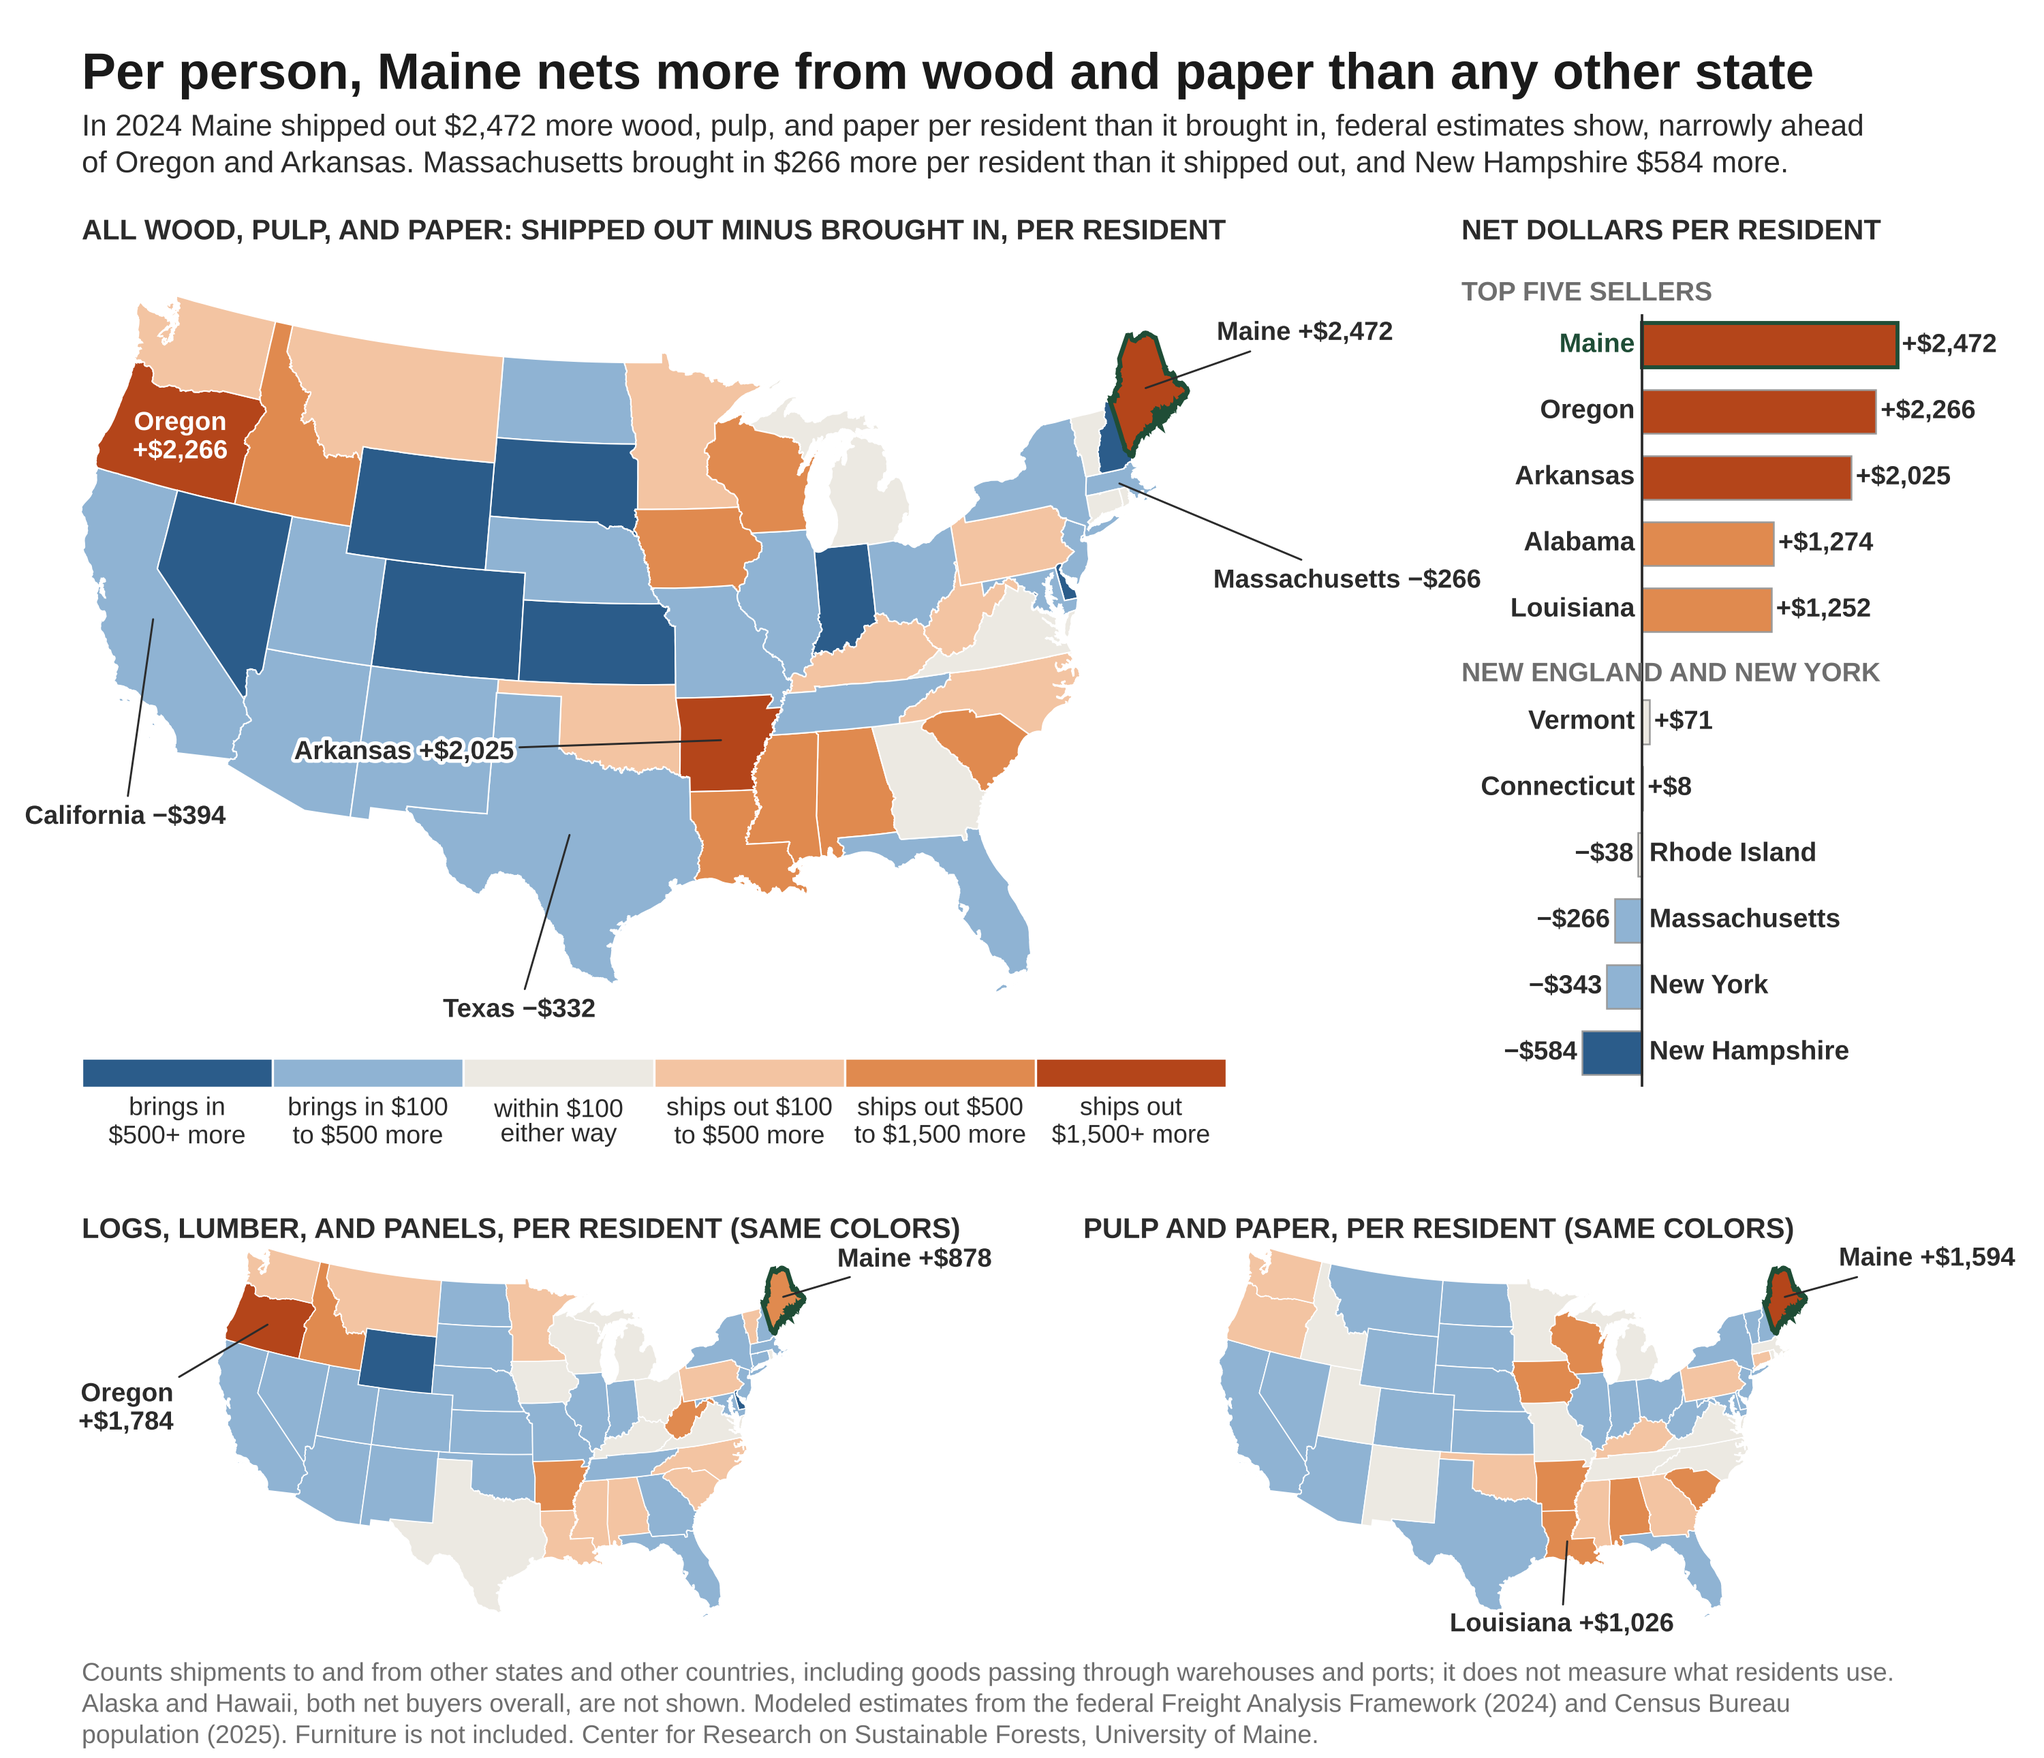
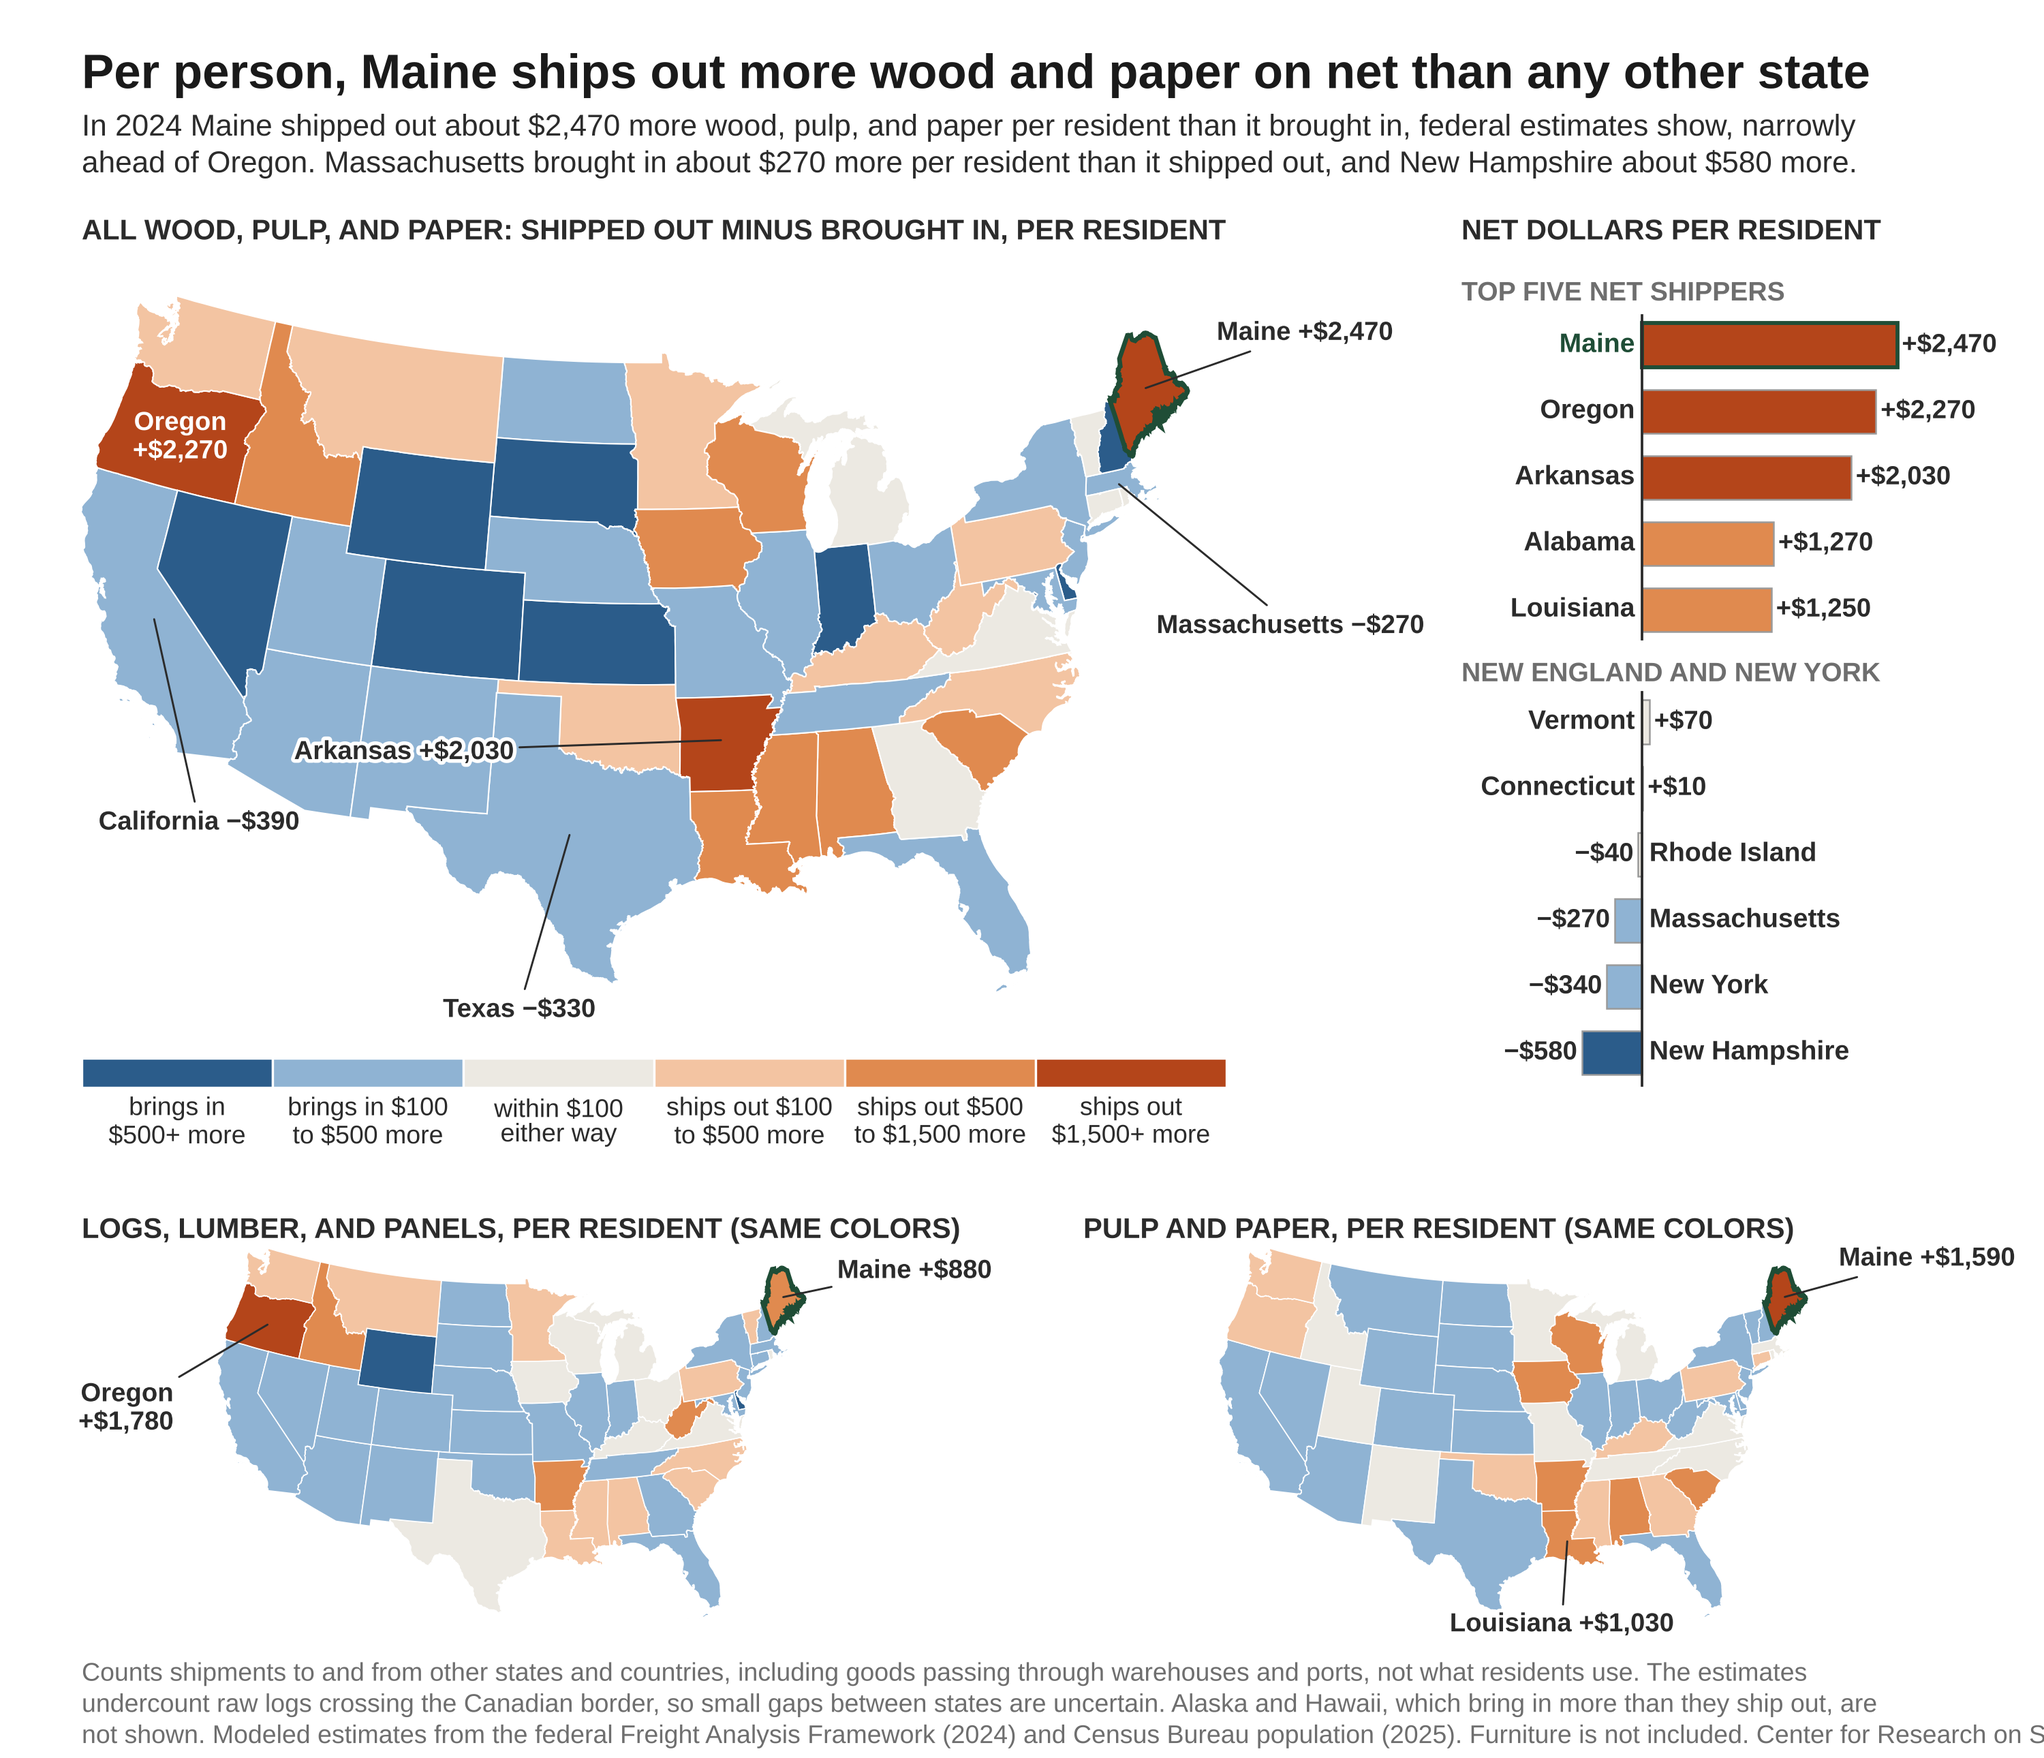
Trade figures: second review round repairs
Claude-Session: https://claude.ai/code/session_013WsDVoeaXCGmdbNt2QvfhH

diff --git a/wood-travels/2026-11-14_us-wood-net-trade-per-person-by-state-map_DRAFT.py b/wood-travels/2026-11-14_us-wood-net-trade-per-person-by-state-map_DRAFT.py
@@ -100,7 +100,7 @@ LABS = ["buys \\$500+ more", "buys \\$100 to \\$500 more", "about even", "sells 
 def cls(v):
     return sum(v >= e for e in EDGES)
 def money(v):
-    return ("+" if v >= 0 else "\u2212") + f"\\${abs(v):,.0f}"
+    return ("+" if v >= 0 else "\u2212") + f"\\${round(abs(v), -1):,.0f}"
 skip = {"Alaska", "Hawaii", "Puerto Rico", "Guam", "American Samoa", "United States Virgin Islands", "Commonwealth of the Northern Mariana Islands"}
 key = {"District of Columbia": "Washington DC"}
 
@@ -122,12 +122,12 @@ def draw(ax, k, labels=None, lw=0.5):
                     color=INK, path_effects=halo, zorder=6, arrowprops=dict(arrowstyle="-", color=INK, lw=0.7, shrinkA=0, shrinkB=1) if abs(dx) + abs(dy) > 26 else None)
 
 fig = plt.figure(figsize=(10, 8.6), dpi=300); fig.patch.set_facecolor("white")
-fig.text(0.04, 0.957, "Per person, Maine nets more from wood and paper than any other state", fontweight="bold", fontsize=18, color="#1A1A1A", ha="left", va="center")
-fig.text(0.04, 0.917, f"In 2024 Maine shipped out \\${val['Maine'][0]:,.0f} more wood, pulp, and paper per resident than it brought in, federal estimates show, narrowly ahead\n"
-         f"of Oregon and Arkansas. Massachusetts brought in \\${-val['Massachusetts'][0]:,.0f} more per resident than it shipped out, and New Hampshire \\${-val['New Hampshire'][0]:,.0f} more.", fontsize=10.6, color=INK, ha="left", va="center", linespacing=1.3)
+fig.text(0.04, 0.957, "Per person, Maine ships out more wood and paper on net than any other state", fontweight="bold", fontsize=17, color="#1A1A1A", ha="left", va="center")
+fig.text(0.04, 0.917, f"In 2024 Maine shipped out about \\${round(val['Maine'][0], -1):,.0f} more wood, pulp, and paper per resident than it brought in, federal estimates show, narrowly\n"
+         f"ahead of Oregon. Massachusetts brought in about \\${round(-val['Massachusetts'][0], -1):,.0f} more per resident than it shipped out, and New Hampshire about \\${round(-val['New Hampshire'][0], -1):,.0f} more.", fontsize=10.6, color=INK, ha="left", va="center", linespacing=1.3)
 
 a = fig.add_axes([0.02, 0.395, 0.60, 0.455])
-draw(a, 0, {"Maine": (26, 20, "left"), "Oregon": (0, 0, "in"), "Arkansas": (-74, -4, "right"), "Massachusetts": (34, -34, "left"), "California": (-10, -70, "center"), "Texas": (-18, -62, "center")})
+draw(a, 0, {"Maine": (26, 20, "left"), "Oregon": (0, 0, "in"), "Arkansas": (-74, -4, "right"), "Massachusetts": (14, -50, "left"), "California": (16, -72, "center"), "Texas": (-18, -62, "center")})
 fig.text(0.04, 0.868, "ALL WOOD, PULP, AND PAPER: SHIPPED OUT MINUS BROUGHT IN, PER RESIDENT", fontsize=10, fontweight="bold", color=INK, ha="left", va="center")
 lx = fig.add_axes([0.04, 0.368, 0.56, 0.03]); lx.set_axis_off(); lx.set_xlim(0, 6); lx.set_ylim(0, 1)
 for i, (c, t) in enumerate(zip(COLS, ["brings in\n\\$500+ more", "brings in \\$100\nto \\$500 more", "within \\$100\neither way", "ships out \\$100\nto \\$500 more", "ships out \\$500\nto \\$1,500 more", "ships out\n\\$1,500+ more"])):
@@ -142,13 +142,13 @@ for s, y in zip(grp, ys):
     b.barh(y, v, height=0.66, color=COLS[cls(v)], edgecolor="#1F4D36" if s == "Maine" else "#9A9A9A", linewidth=1.4 if s == "Maine" else 0.6)
     b.text(-70 if v >= 0 else 70, y, s, ha="right" if v >= 0 else "left", va="center", fontsize=9.4, fontweight="bold", color="#1F4D36" if s == "Maine" else INK)
     b.text(v + (45 if v >= 0 else -45), y, money(v), ha="left" if v >= 0 else "right", va="center", fontsize=9.2, fontweight="bold", color=INK)
-b.plot([0, 0], [-0.5, ys[0] + 0.45], color=INK, lw=0.9); b.set_xlim(-1750, 3300); b.set_ylim(-0.7, len(grp) + 0.4); b.set_axis_off()
-b.text(-1750, ys[0] + 0.78, "TOP FIVE SELLERS", fontsize=9.4, fontweight="bold", color=GRY, ha="left", va="center")
+b.plot([0, 0], [ys[4] - 0.45, ys[0] + 0.45], color=INK, lw=0.9); b.plot([0, 0], [-0.5, ys[5] + 0.45], color=INK, lw=0.9); b.set_xlim(-1750, 3300); b.set_ylim(-0.7, len(grp) + 0.4); b.set_axis_off()
+b.text(-1750, ys[0] + 0.78, "TOP FIVE NET SHIPPERS", fontsize=9.4, fontweight="bold", color=GRY, ha="left", va="center")
 b.text(-1750, ys[5] + 0.72, "NEW ENGLAND AND NEW YORK", fontsize=9.4, fontweight="bold", color=GRY, ha="left", va="center")
 fig.text(0.715, 0.868, "NET DOLLARS PER RESIDENT", fontsize=10, fontweight="bold", color=INK, ha="left", va="center")
 
-for j, (k, title, labs) in enumerate([(1, "LOGS, LUMBER, AND PANELS", {"Maine": (20, 14, "left"), "Oregon": (-34, -30, "right2")}), (2, "PULP AND PAPER", {"Maine": (20, 14, "left"), "Louisiana": (-2, -30, "center")})]):
+for j, (k, title, labs) in enumerate([(1, "LOGS, LUMBER, AND PANELS", {"Maine": (20, 10, "left"), "Oregon": (-34, -30, "right2")}), (2, "PULP AND PAPER", {"Maine": (20, 14, "left"), "Louisiana": (-2, -30, "center")})]):
     c = fig.add_axes([0.02 + 0.49 * j, 0.068, 0.47, 0.222]); draw(c, k, labs, lw=0.4)
     fig.text(0.04 + 0.49 * j, 0.300, title + ", PER RESIDENT (SAME COLORS)", fontsize=10, fontweight="bold", color=INK, ha="left", va="center")
-fig.text(0.04, 0.030, "Counts shipments to and from other states and other countries, including goods passing through warehouses and ports; it does not measure what residents use.\nAlaska and Hawaii, both net buyers overall, are not shown. Modeled estimates from the federal Freight Analysis Framework (2024) and Census Bureau\npopulation (2025). Furniture is not included. Center for Research on Sustainable Forests, University of Maine.", fontsize=9, color=GRY, ha="left", va="center", linespacing=1.3)
+fig.text(0.04, 0.030, "Counts shipments to and from other states and countries, including goods passing through warehouses and ports, not what residents use. The estimates\nundercount raw logs crossing the Canadian border, so small gaps between states are uncertain. Alaska and Hawaii, which bring in more than they ship out, are\nnot shown. Modeled estimates from the federal Freight Analysis Framework (2024) and Census Bureau population (2025). Furniture is not included. Center for Research on Sustainable Forests, University of Maine.", fontsize=9, color=GRY, ha="left", va="center", linespacing=1.3)
 fig.savefig(OUT, dpi=300, facecolor="white"); print("saved", OUT)

diff --git a/wood-travels/2026-11-14_us-wood-net-trade-by-world-region-map_DRAFT.py b/wood-travels/2026-11-14_us-wood-net-trade-by-world-region-map_DRAFT.py
@@ -91,7 +91,7 @@ BUY, SELL = "#2B5C8A", "#D9692E"
 
 fig = plt.figure(figsize=(10, 5.9), dpi=300); fig.patch.set_facecolor("white")
 fig.text(0.04, 0.94, f"The U.S. spends more on wood and paper than it earns in {['zero','one','two','three','four','five','six','seven','eight'][nneg]} of eight world regions", fontweight="bold", fontsize=16.4, color="#1A1A1A", ha="left", va="center")
-fig.text(0.04, 0.878, f"In 2024 the U.S. bought {B(imp)} of logs, wood products, pulp, and paper abroad and sold {B(exp_)}, federal estimates show. It shipped out more\ntons than it brought in, but a ton coming in was worth about \\${imp / kti * 1000:,.0f} and a ton going out about \\${exp_ / kto * 1000:,.0f}, a sign that raw\nmaterials leave and value-added products come back. Circle area is the dollar gap, U.S. sold minus bought.", fontsize=10.6, color=INK, ha="left", va="center", linespacing=1.3)
+fig.text(0.04, 0.878, f"In 2024 the U.S. bought {B(imp)} of logs, wood products, pulp, and paper abroad and sold {B(exp_)}, federal estimates show. It sold more logs, pulp,\nand bulk paper than it bought and bought more lumber, panels, and finished paper goods than it sold. A ton coming in was worth about \\${round(imp / kti * 1000, -1):,.0f}\nand a ton going out about \\${round(exp_ / kto * 1000, -1):,.0f}. Circle area is the dollar gap, U.S. sold minus bought.", fontsize=10.6, color=INK, ha="left", va="center", linespacing=1.3)
 
 ax = fig.add_axes([0.02, 0.07, 0.66, 0.74]); ax.set_axis_off(); ax.set_aspect("equal")
 for name, rings in world.items():
@@ -110,7 +110,7 @@ for k, (i, o) in sorted(reg.items(), key=lambda t: -abs(t[1][1] - t[1][0])):
     txt = f"{nice.get(k, k)}\n{'+' if net > 0 else '−'}{amt}"
     ax.annotate(txt, (x[0], y[0]), xytext=(dx, dy), textcoords="offset points", ha=ha, va="center", fontsize=9.4, fontweight="bold", color="white" if k == "Canada" else INK,
                 path_effects=None if k == "Canada" else halo, zorder=5, linespacing=1.1)
-pp = (imp - exp_) * 1e6 / 341785457                      # U.S. resident population, Census Bureau July 1, 2025 estimates (sum of the state file)
+pp = (imp - exp_) * 1e6 / 341784857                      # U.S. resident population, Census Bureau July 1, 2025 estimates (sum of the state file)
 xu, yu = equal_earth(np.array([-117.0]), np.array([33.0])); xt, yt = equal_earth(np.array([-166.0]), np.array([-4.0]))
 ax.annotate(f"UNITED STATES\nbought {B(imp)}\nsold {B(exp_)}\ngap {B(imp - exp_)}\n\\${pp:.0f} per resident", (xu[0], yu[0]), xytext=(xt[0], yt[0]), textcoords="data", ha="left", va="top",
             fontsize=9.4, fontweight="bold", color=INK, path_effects=halo, arrowprops=dict(arrowstyle="-", color=INK, lw=0.8, relpos=(0.3, 1.0)), zorder=6, linespacing=1.2)
@@ -125,8 +125,9 @@ for j, k in enumerate(order):
     y = len(order) - 1 - j; i, o = reg[k]
     b.barh(y + 0.19, i, height=0.36, color=BUY); b.barh(y - 0.19, o, height=0.36, color=SELL)
     b.text(-600, y, nice.get(k, k).replace("\n", " ").replace("Southwest and Central Asia", "SW and Central Asia").replace("Southeast Asia and Oceania", "SE Asia and Oceania"), ha="right", va="center", fontsize=9.2, fontweight="bold", color=INK)
-    b.text(max(i, o) + 500, y, f"{B(i)} / {B(o)}", ha="left", va="center", fontsize=9, color=INK)
-b.set_xlim(0, 37000); b.set_ylim(-0.7, len(order) - 0.3); b.set_axis_off()
-fig.text(0.80, 0.80, "U.S. BOUGHT", fontsize=10, fontweight="bold", color=BUY, ha="left", va="center"); fig.text(0.905, 0.80, "/ SOLD", fontsize=10, fontweight="bold", color=SELL, ha="left", va="center")
-fig.text(0.04, 0.035, "Modeled estimates from the federal Freight Analysis Framework (2024). Wooden furniture, not counted here, adds a gap of about \\$14B (U.N. data).\nCenter for Research on Sustainable Forests, University of Maine.", fontsize=9, color=GRY, ha="left", va="center", linespacing=1.3)
+    Bm = lambda v: B(v) if v >= 1000 else f"\\${v:.0f}M"
+    b.text(max(i, o) + 500, y, f"{Bm(i)} / {Bm(o)}", ha="left", va="center", fontsize=9, color=INK)
+b.set_xlim(0, 41000); b.set_ylim(-0.7, len(order) - 0.3); b.set_axis_off()
+fig.text(0.80, 0.80, "U.S. BOUGHT", fontsize=10, fontweight="bold", color=BUY, ha="left", va="center"); fig.text(0.897, 0.80, "/ SOLD", fontsize=10, fontweight="bold", color=SELL, ha="left", va="center")
+fig.text(0.04, 0.035, "Modeled estimates from the federal Freight Analysis Framework (2024); the per resident figure uses 2025 population. Wooden furniture, not counted here,\nadds a gap of about \\$14B (U.N. data). Center for Research on Sustainable Forests, University of Maine.", fontsize=9, color=GRY, ha="left", va="center", linespacing=1.3)
 fig.savefig(OUT, dpi=300, facecolor="white"); print("saved", OUT)

diff --git a/wood-travels/README.md b/wood-travels/README.md
@@ -93,3 +93,7 @@ in the article draft.
 ### Red team repairs, November 14, 2026
 
 Both trade figures were reviewed by a fresh reviewer and repaired. The state figure now says "nets" and "shipped out minus brought in" because the Freight Analysis Framework measures shipments, not sales or use. The world figure title is limited to dollars because by weight the U.S. shipped out more than it brought in (52,044 against 43,518 thousand tons). The state population file was checked against the Census Bureau table NST-EST2025-POP (July 1, 2025 estimates; U.S. total 341,784,857), which gives the $49 per resident figure on the world map.
+
+### Second review round, November 14, 2026
+
+A second fresh reviewer recomputed every printed number from the data files with shuffled rows and found no mismatches. Changes that followed: state values are rounded to the nearest $10 because the inputs are whole $M; "narrowly ahead" now names Oregon only; the footer notes the raw log undercount; the Louisiana population typo (4,618,789 for 4,618,189) is corrected. The world figure deck states the commodity pattern the data support (net seller of logs and of pulp, newsprint, and paper; net buyer of wood products and paper articles; about $1,100 a ton in against $600 out). The reviewer showed that the value per ton gap holds within every commodity class and runs the other way for Canada, so the figure does not claim that raw materials leave and return as finished goods. The New Zealand value is in `2024_us-imports-wood-from-new-zealand-comtrade_DATA.csv`.
